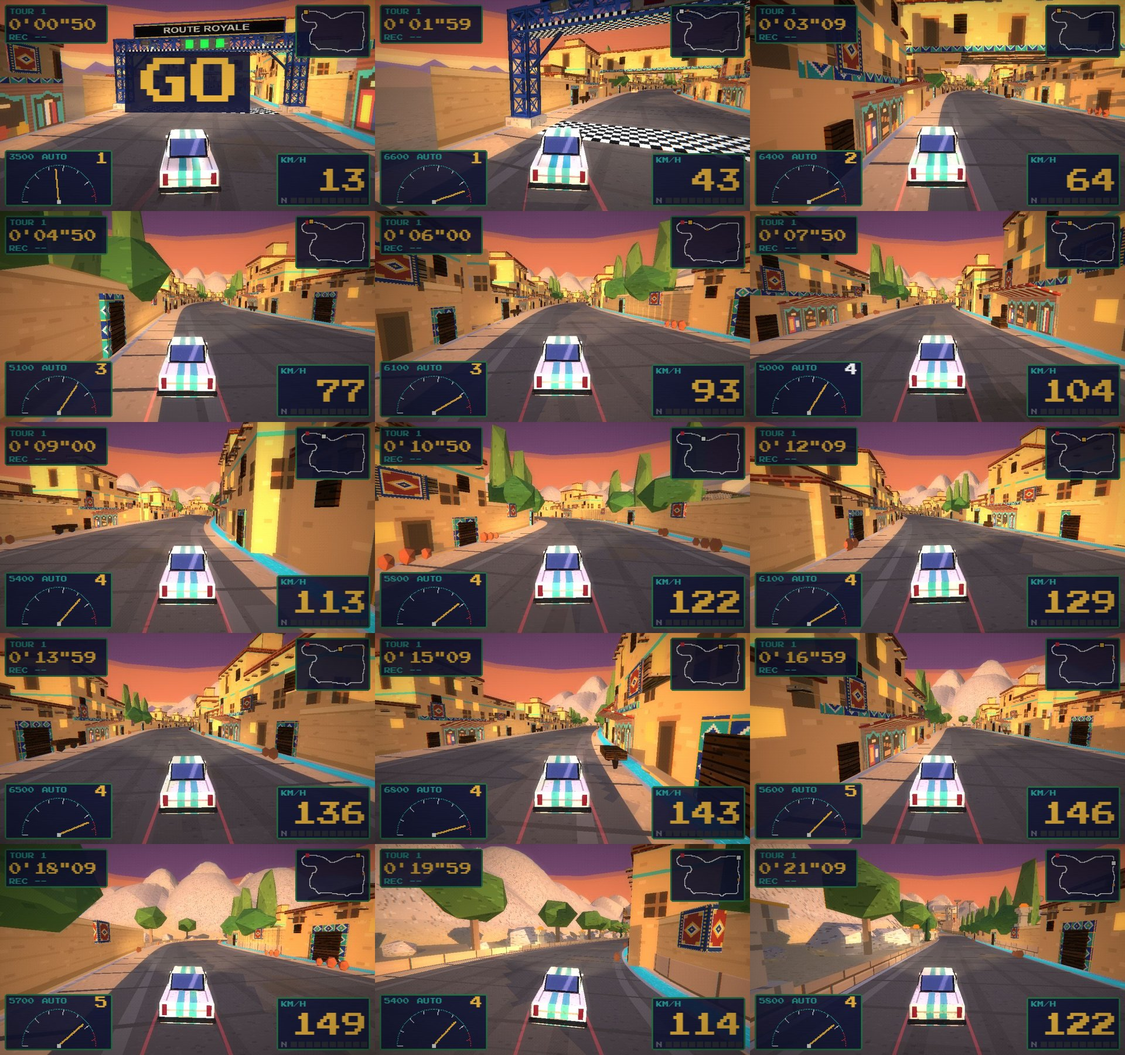
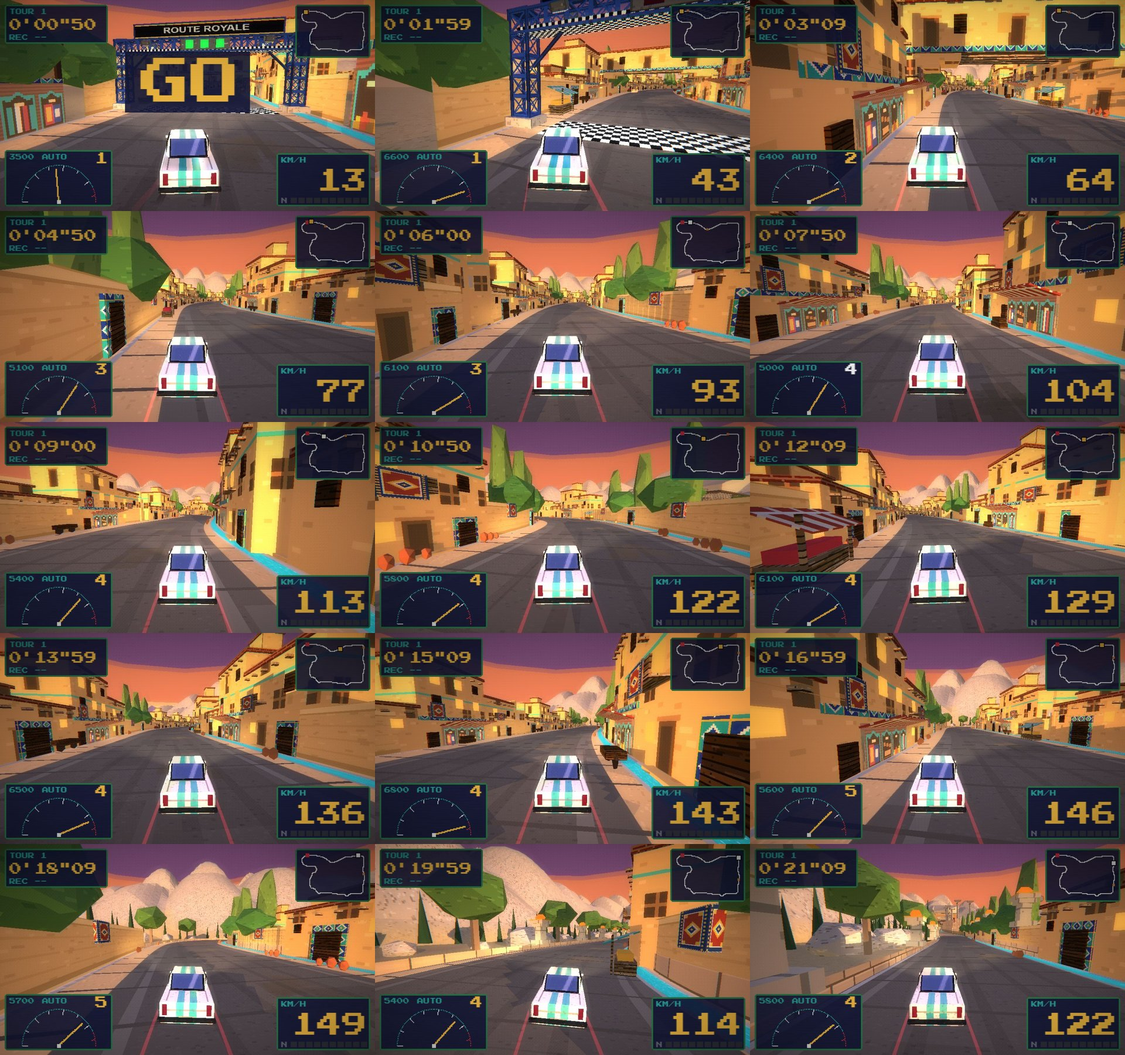
perse, les points laissés par l'analyse : échoppes de la rue du bazar en deux variantes alternées à cinq niches (pixels plus fins, marchandises et tapis différents), étals à auvent devant un îlot sur deux dans la rue de village, deux arbres devant le pignon nu à gauche de la ligne, cyprès sur la pen

diff --git a/decors.js b/decors.js
@@ -1827,7 +1827,7 @@
       const maisons = [], peup = [], calottesV = [], dehors = (s, sd) => Math.atan2(-s.tz, s.tx) + (sd < 0 ? Math.PI : 0); // dehors : orientation d'une pièce dont le Z local s'éloigne de la route
       const fenetre = h.mat('peinture', { lum: 1, c: 0xffc058 }), peauRue = { crue: h.mat('facadeCrue', { emissive: 0x2a2010 }), toit: h.mat('brique', { c: 0xb88868 }), cadre: h.mat('faience'), porte: h.mat('planches', { c: 0x7a5a3c }), fenetre, volet: h.mat('planches', { c: 0x5a4630 }), bois: h.mat('planches'), boutique: h.mat('hojreh', { emissive: 0x4a3828 }), faience: h.mat('faience'), auvent: h.mat('auvent', DS, '#a23b2a', '#e8d9b5'), tapis: h.mat('tapis', {}, '#a23b2a', '#1f3a6e', '#f0b840') };
       const ilots = [], aIlot = (sd, m) => { const k = 8 + 17 * m, K = sd < 0 ? KG : KD; if (k < K0 + 15 || k > K - 26 || (m + (sd > 0 ? 2 : 0)) % 4 === 3) return false; for (const e of [-7, 0, 7]) if (Math.abs(S[rel(k + e)].k || 0) > 0.018) return false; return true; };
-      { const verger = [], cadres = [], portes = [], debord = [], tapisM = [], ruellesI = [], jarres = [], bois = [], roues = [], mt = paroi(terre, 4, 1, 4), chap = h.mat('peinture', { c: 0xdcb880, side: THREE.DoubleSide }), mp = paroi(appareil, 8);
+      { const verger = [], etalsV = [[], []], cadres = [], portes = [], debord = [], tapisM = [], ruellesI = [], jarres = [], bois = [], roues = [], mt = paroi(terre, 4, 1, 4), chap = h.mat('peinture', { c: 0xdcb880, side: THREE.DoubleSide }), mp = paroi(appareil, 8);
         for (const sd of [-1, 1]) { const K = sd < 0 ? KG : KD, off = s => sd * (s.w + 0.4); let a = 0;
           const pose = (a, b, ht) => { if (b <= a) return; murS(rel(a), b - a, off, ht, -0.6, mt); h.ribbon(rel(a), b - a, s => sd * (s.w + 0.1), ht, s => sd * (s.w + 0.7), ht, chap, 4); };
           const ruelles = []; for (let m = 0; 8 + 17 * (m + 1) < K; m++) if (aIlot(sd, m) && aIlot(sd, m + 1)) { const c = 8 + 17 * m + 8, s = S[rel(c)], [x, , z] = au(s, sd * (s.w + 0.3)); ruelles.push(c); ruellesI.push([x + s.tx, s.y - 0.3, z + s.tz, dehors(s, sd)]); } // entre deux îlots : une ruelle latérale, vue en enfilade
@@ -1835,6 +1835,7 @@
           for (let m = 2; 8 + 17 * m < K; m++) { const k = 8 + 17 * m, s = S[rel(k)];
             if (aIlot(sd, m)) { const [x, , z] = au(s, sd * (s.w + 0.25)); ilots.push([x, s.y - 0.3, z, dehors(s, sd), 1, 0.88 + ((m * 5 + (sd > 0) * 3) % 5) * 0.07, 1]);
               const t = (m + (sd > 0)) % 3, sj = S[rel(k + 4 - t * 4)], [jx, , jz] = au(sj, sd * (sj.w - (sd > 0 ? 2.4 : 0.8))), ax = sj.tx, az = sj.tz; // au pied des façades, sur le bord de la chaussée : des jarres, du bois empilé ou une charrette
+              if ((m + (sd > 0)) % 2 === 0) { const se = S[rel(k - 9)], [ex, , ez] = au(se, sd * (se.w - (sd > 0 ? 3.4 : 2.3))); etalsV[(m >> 1) % 2].push([ex, se.y, ez, dehors(se, sd)]); } // un étal à auvent devant un îlot sur deux
               if (t === 0) for (const [e, r] of [[0, 1], [0.9, 0.75], [-0.8, 0.85]]) jarres.push([jx + ax * e, sj.y + 0.5 * r, jz + az * e, 0, 0.36 * r, 0.55 * r, 0.36 * r]);
               else if (t === 1) for (const e of [0, 0.5]) bois.push([jx, sj.y + 0.3 + e * 1, jz, h.across(sj), 0.8, 0.5, 2.2 - e]);
               else { bois.push([jx, sj.y + 0.95, jz, h.across(sj), 1.2, 0.5, 2.4]); for (const e of [-0.9, 0.9]) roues.push([jx + ax * e, sj.y + 0.6, jz + az * e, h.across(sj), 0.14, 0.62, 0.62]); } }
@@ -1845,6 +1846,8 @@
               const [px, , pz] = au(s, sd * (s.w + 0.3)); portes.push([px, s.y + 1.4, pz, h.across(s)]); cadres.push([px, s.y + 1.6, pz, h.across(s)]); // la porte, dans son cadre de faïence turquoise comme celles des maisons
               { const s2 = S[rel(k - 6)], [x, , z] = au(s2, sd * (s2.w + 0.4)); tapisM.push([x, s2.y + 3.1, z, h.across(s2)]); } // un second tapis sur la crête
               for (const [e0, n] of [[-10, 3], [10, 2]]) for (let q = 0; q < n; q++) { const s2 = S[rel(k + e0)], [x, , z] = au(s2, sd * (s2.w - (sd > 0 ? 2.4 : 0.8))), r = 1 - q * 0.15; jarres.push([x + s2.tx * q * 0.9, s2.y + 0.5 * r, z + s2.tz * q * 0.9, 0, 0.36 * r, 0.55 * r, 0.36 * r]); } } } }
+        for (const kk of [24, 28]) { const s2 = S[rel(kk)], [x, , z] = au(s2, -(s2.w + 2.2)); debord.push([x, s2.y + 5.6, z, kk % 6, 4.4, 3.4, 4.4]); } // au raccord de la rue du bazar et du premier îlot, à gauche de la ligne : deux arbres devant le pignon nu
+        [['#a23b2a', '#e8d9b5'], ['#2aa39a', '#e8d9b5']].forEach((c, n) => sansOmbre(Is('etalPerse', { bois: peauRue.bois, auvent: h.mat('auvent', DS, ...c), marchandise: h.mat('peinture', { c: n ? 0xf0b840 : 0xc8323c }) }, etalsV[n])));
         sansOmbre(Is('ilot', peauRue, ilots), peauRue.crue); sansOmbre(Is('ruelle', { crue: peauRue.crue, sol: h.mat('peinture', { c: 0xb89a70 }), cadre: peauRue.cadre, porte: peauRue.porte, fenetre, arc: h.mat('peinture', { c: 0xdccfb4 }) }, ruellesI));
         I(h.geo('houppierRond'), h.mat('bruit', {}, '#4f7a3a', ['#5c8a44', '#3e6b34']), debord).castShadow = false; I(h.geo('boite', 0.7, 2, 2.2), peauRue.tapis, tapisM);
         { const sab = []; for (const m of [2, 9, 13, 17, 21]) if (aIlot(-1, m) && aIlot(1, m) && sab.length < 3) { const s = S[rel(8 + 17 * m + 5)]; sab.push([s.x, s.y - 0.3, s.z, h.across(s), 1, 1, 1]); } sansOmbre(Is('sabat', peauRue, sab, { a: [11] }), peauRue.crue); }
@@ -1856,6 +1859,7 @@
       { const tr = [], ho = [], rocs = [], i0 = 332, n = i9 - i0; { const p = paroi(appareil, 8); murS(i0, n, s => -(s.w + 0.4), 0.9, -0.6, p); p.fin(); } h.ribbon(i0, n, s => -(s.w + 0.1), 0.9, s => -(s.w + 0.8), 0.9, pierre, 4);
         for (let i = i0 + 8; i < i9 + 30; i += 11) { const s = S[i], [x, , z] = au(s, -(s.w + 5 + (i % 4))), y = sol(x, z); tr.push([x, y + 3.2, z, 0, 0.9, 7.4, 0.9]); ho.push([x, y + 9.5, z, i % 6, 6.2, 4.6, 6.2]); }
         for (let i = i0; i < i9 + 20; i += 4) { const s = S[i], d = s.w + 9 + ((i * 7) % 16), [x, , z] = au(s, -d), k = 1.5 + ((i * 5) % 7) * 0.5; rocs.push([x, sol(x, z) + k * 0.3, z, i % 5, k * 1.4, k, k * 1.1]); }
+        { const cy = []; for (let i = i0 + 2; i < i9 + 24; i += 3) { const s = S[i], d = s.w + 13 + ((i * 11) % 34), [x, , z] = au(s, -d), f = 0.8 + ((i * 7) % 6) * 0.12; cy.push([x, sol(x, z) - 0.6, z, 0, f, f, f]); } I(h.geo('cypres'), h.mat('peinture', { c: 0x2f4a2e }), cy).castShadow = false; } // des cyprès sombres sur la pente claire : elle n'est plus un aplat
         I(h.geo('bloc'), h.mat('peinture', { c: 0x8a7458 }), tr); I(h.geo('houppierRond'), h.mat('bruit', {}, '#5a7a3a', ['#6a8a44', '#46642e']), ho); I(h.geo('houppierRond'), h.mat('bruit', { flatShading: true }, '#b9ad9c', ['#9c9080', '#d0c6b6', '#857a6c']), rocs); }
       I(h.geo('houppierRond'), peuplier, peup).castShadow = false;
       // --- la chaussée dallée : des joints en travers sur toute la route à ciel ouvert, hors de l'escalier (qui a ses marches) et de la salle (qui a son tapis) ---
@@ -1869,7 +1873,7 @@
       for (const sd of [-1, 1]) h.ribbon(i9 - 20, 20, s => sd * W, 0.035, s => sd * s.w, 0.035, dallage, 8);
       for (const sd of [-1, 1]) { const s = S[i9 - 2], [x, , z] = au(s, sd * (s.w + 1.2)), m = boite(h, h.mat('lionTaureau'), 0.5, 4.4, 4.4, x, s.y + 2.2, z); m.rotation.y = h.across(s); }
       rigole(i9 - 20, i14 + 8 - (i9 - 20)); rigole(i20 - 34, 33); // le fil d'eau monte l'escalier et traverse la terrasse
-      for (let i = 366; i < i9 - 8; i += 10) { brasero(i, S[i].w + 0.4, 1.2, 4); brasero(i, -(S[i].w + 0.45), 1.2, 0.9); } // une allée d'autels du feu sur les murs, du virage au parvis : elle annonce l'escalier
+      for (let i = 366; i < i9 - 8; i += 10) { brasero(i, S[i].w + 0.4, 2, 4); brasero(i, -(S[i].w + 0.45), 2, 0.9); } // (5 m de haut : à 1,2 on ne les remarquait pas) // une allée d'autels du feu sur les murs, du virage au parvis : elle annonce l'escalier
       // --- le grand escalier (REFS §2-3), tel qu'il était : marches basses de pierre sur toute la largeur, parapets à frise d'Immortels des deux côtés, couronnés d'un bandeau de rosettes, autels du feu qui rythment la montée ---
       { const HPa = 2.6, n = i12 + 10 - i9, lt = [], etend = [];
         h.ribbon(i9, i12 - i9, s => -s.w + 0.4, 0.03, s => s.w - 0.4, 0.03, h.mat('marchesPerse', { ...DS, emissive: 0x2a2014 }), 1.2);
@@ -1905,8 +1909,10 @@
       // allée de tapis rouge et or qui montre la ligne rapide, un tapis rond et un cercle ivoire sous chaque colonne qu'on peut percuter, frise des Immortels sur le pourtour ---
       { const HX = 88, HZ = 80, HM = HC + 3, foret = [];
         { const d = nappe(h.mat('dallage', DS), 8); for (let k = 0; k < 64; k++) { const f = j => [CX + Math.cos(j * Math.PI / 32) * (PL.r + 0.5), YS - 0.01, CZ + Math.sin(j * Math.PI / 32) * (PL.r + 0.5)], c = [CX, YS - 0.01, CZ]; d.quad(c, c, f(k), f(k + 1)); } d.fin(); }
-        h.ribbon(i14 + 10, (i20 - i14 + N) % N - 20, -3.5, 0.03, 3.5, 0.03, h.mat('tapisAllee', DS), 7);
-        for (const e of [-1, 1]) h.ribbon(i14 + 10, (i20 - i14 + N) % N - 20, e * 3.5, 0.035, e * 3.85, 0.035, h.mat('peinture', { lum: 1, c: 0xf4ead0, side: THREE.DoubleSide }), 4); // liserés ivoire : l'allée se lit sur le tapis
+        const nTapis = (i20 - i14 + N) % N - 11; // jusqu'à la lèvre du perron (il s'arrêtait net 18 m avant)
+        h.ribbon(i14 + 10, nTapis, -3.5, 0.03, 3.5, 0.03, h.mat('tapisAllee', DS), 7);
+        for (const e of [-1, 1]) h.ribbon(i14 + 10, nTapis, e * 3.5, 0.035, e * 3.85, 0.035, h.mat('peinture', { lum: 1, c: 0xf4ead0, side: THREE.DoubleSide }), 4);
+        h.ribbon(i14 + 9, 1, -3.85, 0.035, 3.85, 0.035, h.mat('peinture', { lum: 1, c: 0xf4ead0, side: THREE.DoubleSide }), 4); // la frange ivoire, au début du tapis // liserés ivoire : l'allée se lit sur le tapis
         { const d = nappe(h.mat('dallage', DS), 8), i0 = i14 + 10, n = (i20 - i14 + N) % N - 20; // le damier vient jusqu'au liseré du tapis : la chaussée grise qui dépassait de chaque côté se lisait comme une seconde piste
           for (let k = 0; k < n; k++) { const a = S[(i0 + k) % N], b = S[(i0 + k + 1) % N]; if (!dansSalle(a.x, a.z, -1) || !dansSalle(b.x, b.z, -1)) continue; for (const sd of [-1, 1]) d.quad(au(a, sd * 3.85, 0.03), au(b, sd * 3.85, 0.03), au(a, sd * a.w, 0.03), au(b, sd * b.w, 0.03)); } d.fin().castShadow = false; }
         for (let x = CX - 84; x <= CX + 84; x += 12) for (let z = CZ - 72; z <= CZ + 72; z += 12) if (!dansSalle(x, z, 4) && g.dAt(x, z) > W + 4) foret.push([x, YS, z, 0]);
@@ -1914,7 +1920,7 @@
         Is('colonnePerse', { pierre: h.mat('pierre', { c: 0xa8a098, emissive: 0x1a1612 }), fut: h.mat('cannelure', { c: 0xa49e94, emissive: 0x1a1612 }), sculpte: h.mat('sculpte', { emissive: 0x1a1612 }), or }, foret, { a: [HC] });
         I(h.geo('disque'), tapisBord, PL.piles.map((_, k) => [cols[k][0], YS + 0.05, cols[k][2], 0, 4.2, 1, 4.2])); I(h.geo('margelle'), h.mat('peinture', { lum: 1, c: 0xf4ead0 }), PL.piles.map((_, k) => [cols[k][0], YS - 0.1, cols[k][2], 0, 4.4, 0.35, 4.4]));
         const poutres = [], cedre = h.mat('peinture', { c: 0x6a4a2e }); for (let z = CZ - 72; z <= CZ + 72; z += 12) poutres.push([CX, YS + HC + 0.6, z, 0, 2 * HX, 1.2, 1.6]); I(h.geo('bloc'), cedre, poutres);
-        boite(h, h.mat('plafondCedre'), 2 * HX + 6, 0.8, 2 * HZ + 6, CX, YS + HM - 1.2, CZ); for (const [w, d, x, z] of [[2 * HX + 9, 2.4, CX, CZ - HZ - 3], [2 * HX + 9, 2.4, CX, CZ + HZ + 3], [2.4, 2 * HZ + 9, CX - HX - 3, CZ], [2.4, 2 * HZ + 9, CX + HX + 3, CZ]]) boite(h, noir, w, 2.8, d, x, YS + HM - 0.6, z); // l'entablement de pierre sombre
+        boite(h, h.mat('plafondCedre', { emissive: 0x4a3424 }), 2 * HX + 6, 0.8, 2 * HZ + 6, CX, YS + HM - 1.2, CZ); for (const [w, d, x, z] of [[2 * HX + 9, 2.4, CX, CZ - HZ - 3], [2 * HX + 9, 2.4, CX, CZ + HZ + 3], [2.4, 2 * HZ + 9, CX - HX - 3, CZ], [2.4, 2 * HZ + 9, CX + HX + 3, CZ]]) boite(h, noir, w, 2.8, d, x, YS + HM - 0.6, z); // l'entablement de pierre sombre
         // le pourtour de la place où l'on roule : un mur de 1,5 m d'épaisseur (une feuille, avant), frise des Immortels sur ses deux faces, dessus et bouts de pierre, là où il ne coupe pas la chaussée
         const tour = paroi(frise, 3.6, 1, 4), tourX = paroi(frise, 3.6, 1, 4), pierreD = h.mat('pierre', DS), dessus = nappe(pierreD, 4), bouts = nappe(pierreD), EP = 1.5, y1 = YS + 3, y0 = YS - 0.6, f = (j, r) => [CX + Math.cos(j * Math.PI / 48) * r, CZ + Math.sin(j * Math.PI / 48) * r];
         const plein = k => { const [x, z] = f(k + 0.5, PL.r), s = S[near(h, x, z)]; return Math.hypot(s.x - x, s.z - z) >= s.w + 0.5; };
@@ -2018,15 +2024,15 @@
 
       // --- à ciel ouvert, avant le portail (fin du jardin) et après la voûte jusqu'à la ruelle de jardins : une rue de boutiques. Chaque module a ses niches, un étage et un toit plat ;
       // les hauteurs varient de 7 à 10 m, puis la rue s'abaisse vers la plaine. Sur les 40 premiers mètres après la voûte, des toiles tendues d'une façade à l'autre : on ne passe pas d'un coup de l'ombre au ciel ---
-      { const mods = [], badgirs = [], potences = [], lanternes = [], etals = [[], []], toiles = [[], []], finRue = R0 + 22, peaux = { tapis: h.mat('tapis', {}, '#a23b2a', '#1f3a6e', '#f0b840'), boutiques: h.mat('hojreh', { emissive: 0x4a3828 }), faience: h.mat('faience'), etage: h.mat('facadeCrue'), toit: h.mat('brique', { c: 0xb88868 }) };
+      { const mods = [[], []], badgirs = [], potences = [], lanternes = [], etals = [[], []], toiles = [[], []], finRue = R0 + 22, peaux = { tapis: h.mat('tapis', {}, '#a23b2a', '#1f3a6e', '#f0b840'), boutiques: h.mat('hojreh', { emissive: 0x4a3828 }), faience: h.mat('faience'), etage: h.mat('facadeCrue'), toit: h.mat('brique', { c: 0xb88868 }) };
         const rue = (a, b) => { for (let i = a, k = 0; i < b; i += 6, k++) { const j = i % N, s = S[j], reste = (b - i) / 6, bas = 1; // la rue garde sa hauteur jusqu'aux premiers îlots de la rue de village, 6 m avant la ligne (elle s'abaissait vers un mur de terre nu : 50 m vides)
-            for (const sd of [-1, 1]) { const [x, , z] = au(S[(j + 3) % N], sd * (S[(j + 3) % N].w + 0.5)), hy = bas * (0.72 + ((k * 5 + (sd > 0) * 3) % 5) * 0.14); mods.push([x, s.y - 0.4, z, Math.atan2(-s.tz, s.tx) + (sd < 0 ? Math.PI : 0), 1.04, hy, 1]);
+            for (const sd of [-1, 1]) { const [x, , z] = au(S[(j + 3) % N], sd * (S[(j + 3) % N].w + 0.5)), hy = bas * (0.72 + ((k * 5 + (sd > 0) * 3) % 5) * 0.14); mods[(k + (sd > 0)) % 2].push([x, s.y - 0.4, z, Math.atan2(-s.tz, s.tx) + (sd < 0 ? Math.PI : 0), 1.04, hy, 1]);
               if ((k + (sd > 0) * 2) % 3 === 1) { const [bx, , bz] = au(S[(j + 3 + (k % 2) * 2) % N], sd * (S[(j + 3) % N].w + 5 + (k % 3))); badgirs.push([bx, s.y - 0.4 + 9.5 * hy, bz, h.across(s), 1, 0.8 + (k % 4) * 0.2, 1]); } // une tour à vent sur un toit sur trois : la ligne des toits n'est plus un trait
               if ((k + (sd > 0)) % 2 === 0 && reste > 2) { const [ex, , ez] = au(s, sd * (s.w - (sd > 0 ? 3.4 : 2.3))); etals[(k >> 1) % 2].push([ex, s.y, ez, dehors(s, sd)]); } // un étal à auvent devant une boutique sur deux, sur le bord de la chaussée
               if ((k + (sd > 0) * 2) % 5 === 0) { const [px, , pz] = au(s, sd * (s.w - 0.4)); potences.push([px, s.y + 4.9, pz, h.across(s), 1.8, 0.1, 0.1]); const [lx, , lz] = au(s, sd * (s.w - 1.1)); lanternes.push([lx, s.y + 4.2, lz, 0]); h.lum(j, lx, s.y + 4.2, lz, 0xffb060, 14, 0.4); } } } }; // une lanterne sur potence de fer, fixée à la façade, une boutique sur cinq
         rue(i25 - 2, T.t0 - 2); rue(T.t1 + 3, finRue);
-        for (let k = 0; k < 4; k++) { const s = S[(T.t1 + 4 + k * 5) % N]; toiles[k % 2].push([s.x, s.y + 7.6 - (k % 2) * 0.5, s.z, h.across(s), 2 * s.w + 1.2, 0.08, 5]); } // quatre toiles, d'une façade à l'autre, sous la ligne des toits
-        sansOmbre(Is('arcadeBazar', peaux, mods), peaux.etage); sansOmbre(Is('badgir', { crue: peaux.etage, sombre }, badgirs)); [['#c8323c', '#f0b840'], ['#2aa39a', '#e8d9b5']].forEach((c, n) => sansOmbre(Is('etalPerse', { bois, auvent: h.mat('auvent', DS, ...c), marchandise: h.mat('peinture', { c: n ? 0xf0b840 : 0xc8323c }) }, etals[n]))); I(h.geo('bloc'), h.mat('matGris'), potences); I(h.geo('lanterne'), h.mat('peinture', { lum: 1, c: 0xe8a050 }), lanternes);
+        for (let k = 0; k < 6; k++) { const s = S[(T.t1 + 4 + k * 3) % N]; toiles[k % 2].push([s.x, s.y + 7.6 - (k % 2) * 0.5, s.z, h.across(s), 2 * s.w + 1.2, 0.08, 1.6]); } // six bandes de toile étroites, d'une façade à l'autre, sous la ligne des toits (larges, elles faisaient un grand aplat quand la caméra passait dessous)
+        mods.forEach((l, v) => sansOmbre(Is('arcadeBazar', { ...peaux, boutiques: h.mat('hojreh', { emissive: 0x4a3828 }, 5, v * 2), tapis: v ? h.mat('tapis', {}, '#1f3a6e', '#a23b2a', '#f4ead0') : peaux.tapis }, l), peaux.etage)); /* deux variantes de module, alternées : cinq niches plus fines, marchandises et tapis différents */ sansOmbre(Is('badgir', { crue: peaux.etage, sombre }, badgirs)); [['#c8323c', '#f0b840'], ['#2aa39a', '#e8d9b5']].forEach((c, n) => sansOmbre(Is('etalPerse', { bois, auvent: h.mat('auvent', DS, ...c), marchandise: h.mat('peinture', { c: n ? 0xf0b840 : 0xc8323c }) }, etals[n]))); I(h.geo('bloc'), h.mat('matGris'), potences); I(h.geo('lanterne'), h.mat('peinture', { lum: 1, c: 0xe8a050 }), lanternes);
         [['#e8d9b5', '#d2a24c'], ['#e8d9b5', '#2aa39a']].forEach((c, k) => I(h.geo('bloc'), h.mat('auvent', { ...DS, emissive: 0x6a5a40 }, ...c), toiles[k])); // toiles claires mais éclairées par le jour : lumineuses, elles brûlaient la sortie de la voûte en bandes blanches
         rigole(T.t1 + 3, (R0 + 27 - (T.t1 + 3) + N) % N); if (T.tun) rigole(T.t0, (T.t1 - T.t0 + N) % N + 3, 2.7, 1.8); rigole(i25 - 3, (T.t0 - (i25 - 3) + N) % N); } // la rigole du canal, à droite, jusqu'à celle de la ruelle
       // --- le quartier du bazar : autour de la voûte et de la rue, une nappe de maisons de brique crue à toits plats qui descend la pente, quelques calottes de brique (pas de bulbe : REFS §12) ---

diff --git a/textures-perse.js b/textures-perse.js
@@ -162,10 +162,11 @@
       R(g, '#4a2e18', 0, 15, 32, 2); R(g, '#4a2e18', 15, 0, 2, 32);
     }, 6],
     // REFS §12 : boutiques (hojreh) du bazar en niches brisées, deux par motif de 8 m : tapis, cuivres, épices, étoffes ; cadre de brique et liseré de faïence
-    hojreh: () => [64, 32, (g, { R }) => {
-      R(g, '#7a4630', 0, 0, 64, 32); for (let y = 0; y < 32; y += 2) R(g, '#5e3424', 0, y, 64, 1);
+    // n niches par motif (4 : la voûte ; 5 sur les modules de 12 m de la rue : niches de 2,4 m, pixels plus fins), d : décalage de l'ordre des marchandises (les modules voisins diffèrent)
+    hojreh: (n = 4, d = 0) => [16 * n, 32, (g, { R }) => {
+      R(g, '#7a4630', 0, 0, 16 * n, 32); for (let y = 0; y < 32; y += 2) R(g, '#5e3424', 0, y, 16 * n, 1);
       const B = [[ROUGE, LAPIS, OR], ['#c8742e', '#e89a50', '#7a4420'], ['#d9a21b', '#b5391e', '#7a5a20'], [TURQ, IVOIRE, ROUGE]];
-      for (let k = 0; k < 4; k++) { const x = k * 16 + 2, [a, b, c] = B[k]; R(g, TURQ, x - 1, 7, 14, 25); R(g, '#24140c', x, 9, 12, 23); for (let j = 0; j < 5; j++) { R(g, TURQ, x + 1 + j, 9 - j, 10 - 2 * j, 1); R(g, '#24140c', x + 2 + j, 10 - j, 8 - 2 * j, 1); }
+      for (let q = 0; q < n; q++) { const x = q * 16 + 2, k = (q + d) % 4, [a, b, c] = B[k]; R(g, TURQ, x - 1, 7, 14, 25); R(g, '#24140c', x, 9, 12, 23); for (let j = 0; j < 5; j++) { R(g, TURQ, x + 1 + j, 9 - j, 10 - 2 * j, 1); R(g, '#24140c', x + 2 + j, 10 - j, 8 - 2 * j, 1); }
         R(g, '#ffd890', x + 4, 11, 4, 2); // lampe au fond de la boutique
         if (k === 0) { R(g, a, x + 1, 14, 5, 14); R(g, c, x + 2, 16, 3, 10); R(g, b, x + 6, 15, 5, 13); R(g, IVOIRE, x + 7, 18, 3, 6); } // tapis pendus
         else if (k === 1) for (let j = 0; j < 3; j++) { R(g, a, x + 1 + j * 4, 15 + j, 3, 3); R(g, b, x + 2 + j * 3, 22, 3, 4); R(g, c, x + 1, 27, 10, 1); } // cuivres
